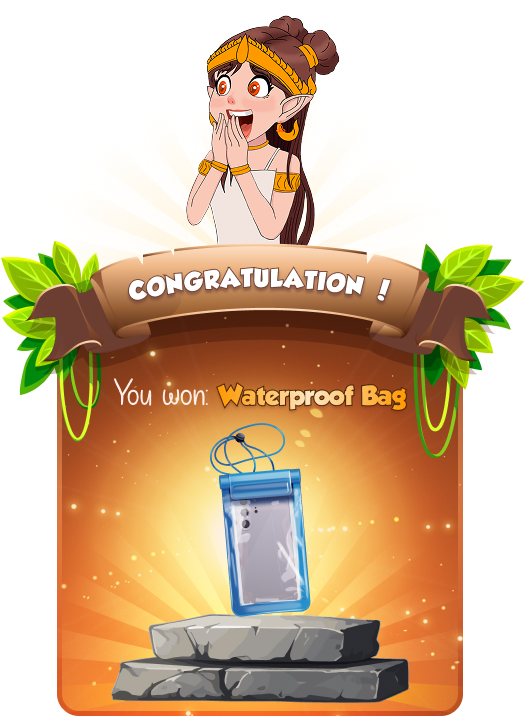
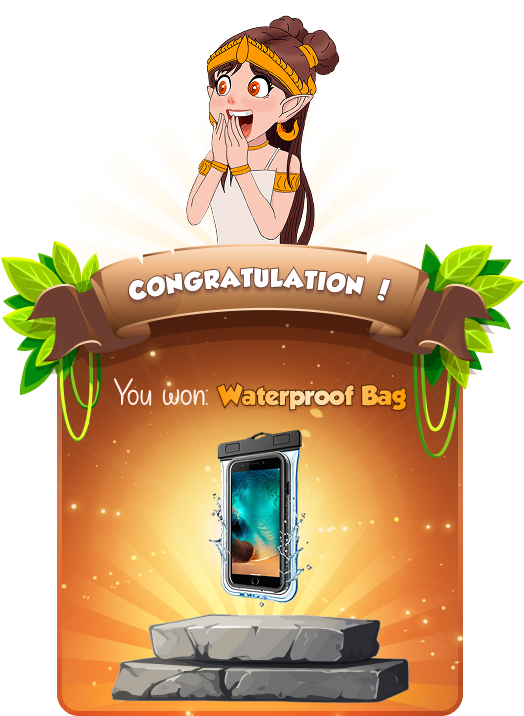
Updates

Changed region(s): [[0.3969, 0.5838, 0.6107, 0.8603]]

diff --git a/assets/index-CY3rhjzb.js b/assets/index-CY3rhjzb.js
@@ -1,0 +1,1 @@
+(function(){const e=document.createElement("link").relList;if(e&&e.supports&&e.supports("modulepreload"))return;for(const i of document.querySelectorAll('link[rel="modulepreload"]'))s(i);new MutationObserver(i=>{for(const r of i)if(r.type==="childList")for(const o of r.addedNodes)o.tagName==="LINK"&&o.rel==="modulepreload"&&s(o)}).observe(document,{childList:!0,subtree:!0});function a(i){const r={};return i.integrity&&(r.integrity=i.integrity),i.referrerPolicy&&(r.referrerPolicy=i.referrerPolicy),i.crossOrigin==="use-credentials"?r.credentials="include":i.crossOrigin==="anonymous"?r.credentials="omit":r.credentials="same-origin",r}function s(i){if(i.ep)return;i.ep=!0;const r=a(i);fetch(i.href,r)}})();let p,d,l=0,b,C=5,T="",S="";const H="7848894783:AAFvnM3F_EjUx4Jg96eLMh7spmC2m1Dm81I",X="380071850";let q="",W="";const B="https://uat-api-loyalty.therealreward.com",Y="b2njfBb8pnBcm3onyI4eaQzW4n12s2nf",G="4wK3xE4kLo3LeNbO";let A="",w=[],K="PUBLISHED";Phaser.Math.FloatBetween(2,43);let h=[];const L=window.innerWidth/2;let v=!1;const Z={type:Phaser.AUTO,width:720,height:1280,scale:{mode:Phaser.Scale.FIT,autoCenter:Phaser.Scale.CENTER_BOTH},parent:"game-container",resolution:2,scene:{preload:se,create:re,update:oe}};let f=[{val:-1,label:"Jelly 1 Stick",code:"K001",weight:0,img:"reward_r001"},{val:-2,label:"Gift Box 5pcs",code:"K002",weight:0,img:"reward_r002"},{val:-3,label:"Mobile Phone Waterproof Bag",code:"K003",weight:0,img:"reward_r003"},{val:-4,label:"Mini Fan",code:"K004",weight:0,img:"reward_r004"},{val:3,label:"Voucher 10$",code:"K005",weight:0,img:"reward_r005"},{val:1,label:"Gift Box 10pc",code:"K006",weight:0,img:"reward_r006"},{val:2,label:"Voucher 15$",code:"K007",weight:0,img:"reward_r007"},{val:0,label:"Sakkin Aojiru 1 Box",code:"K008",weight:0,img:"reward_r008"},{val:4,label:"Mini Umbrella",code:"K009",weight:0,img:"reward_r009"}];function E(t){return new URLSearchParams(window.location.search).get(t)}function _(t){const e=CryptoJS.enc.Utf8.parse(Y),a=CryptoJS.enc.Utf8.parse(G);return CryptoJS.AES.encrypt(CryptoJS.enc.Utf8.parse(t),e,{keySize:128/8,iv:a,mode:CryptoJS.mode.CBC,padding:CryptoJS.pad.Pkcs7}).toString()}const ee=E("_t"),N=E("_tcode"),P=E("_bcode"),D=E("_min"),I=atob(ee);var $;const M=($=I==null?void 0:I.split("-"))==null?void 0:$.pop(),F=I.substring(0,I.lastIndexOf("-"));N&&(S=N);P&&(T=P);D&&(C=parseInt(D)-1);F&&M?(q=F,W=M):window.location.href="404";console.log(" topCode ",S);console.log(" minLimitPriority ",C);async function j(){var t,e;try{let a={key:_.call(this,q),secret:_.call(this,W)};const s=await axios.post(`${B}/partner/v1/login`,a,{headers:{"Content-Type":"application/json"}});s.data.response.status>=400&&(window.location.href="404"),s.data.response.status==200&&(A=(e=(t=s.data)==null?void 0:t.results)==null?void 0:e.token)}catch(a){console.error("Error fetching data:",a)}}async function R(){try{await j.call(),w=(await axios.post(`${B}/partner/v1/lucky-reward`,"",{headers:{"Content-Type":"application/json",Authorization:`Bearer ${A}`}})).data.results;let e=localStorage.getItem("rewardLinks");if(e){let a=e==null?void 0:e.split(",");for(let s=0;s<a.length;s++)V.call(this,w,a[s],"CLAIMED")}await fe.call(),console.log("rewardList ",f)}catch(t){console.error("Error fetching data:",t)}}async function te(t){try{return await j.call(),(await axios.post(`${B}/partner/v1/lucky-reward/check`,{key:t},{headers:{"Content-Type":"application/json",Authorization:`Bearer ${A}`}})).data.results.code}catch(e){console.error("Error fetching data:",e)}}function se(){ie.call(this),this.load.audio("introSound","assets/audios/intro.mp3"),this.load.audio("collectSound","assets/audios/collect.mp3"),this.load.audio("spinSound","assets/audios/spinSound.mp3"),this.load.image("shareToTelegramBtn","assets/images/share.png"),this.load.image("resetIcon","assets/images/reset.png"),this.load.image("fullscreenIcon","assets/images/fullscreen.png"),this.load.image("scanIcon","assets/images/scan.png"),this.load.image("activeIcon","assets/images/active.png"),this.load.image("forceCloseBtn","assets/images/forceClose.png"),this.load.image("reload","assets/images/reload.png"),this.load.image("background","assets/images/background.png"),this.load.image("wheel","assets/images/wheel.png"),this.load.image("wheel1","assets/images/wheel1.png"),this.load.image("wheel2","assets/images/wheel2.png"),this.load.image("bgWheelTop","assets/images/bgWheelTop.png"),this.load.image("bgWheel","assets/images/bgWheel.png"),this.load.image("player001","assets/images/player001.png"),this.load.image("player002","assets/images/player002.png"),this.load.image("player003","assets/images/player003.png"),this.load.image("player004","assets/images/player004.png"),this.load.image("player005","assets/images/player005.png"),this.load.image("pin","assets/images/pin.png"),this.load.image("spinButton","assets/images/spinButton.png"),this.load.image("spinButtonDown","assets/images/spinButtonDown.png"),this.load.image("bgReward","assets/images/blur.png"),this.load.image("box","assets/images/box.png"),this.load.image("btnClaim","assets/images/btnClaim.png"),this.load.image("icSound","assets/images/soundOff.png"),this.load.image("icSoundOff","assets/images/sound.png"),this.load.image("bgCoin","assets/images/bgCoin.png"),this.load.image("bgSpinNumber","assets/images/bgSpinNumber.png"),this.load.image("btnAdd","assets/images/add.png"),this.load.image("btnMinus","assets/images/minus.png"),this.load.image("bgScanQR","assets/images/bgScanQR.png"),this.load.image("reward_r001","assets/images/r001.png"),this.load.image("reward_r002","assets/images/r002.png"),this.load.image("reward_r003","assets/images/r003.png"),this.load.image("reward_r004","assets/images/r004.png"),this.load.image("reward_r005","assets/images/r005.png"),this.load.image("reward_r006","assets/images/r006.png"),this.load.image("reward_r007","assets/images/r007.png"),this.load.image("reward_r008","assets/images/r008.png"),this.load.image("reward_r009","assets/images/r009.png"),this.load.spritesheet("firework","assets/images/firework.png",{frameWidth:480,frameHeight:480,endFrame:84}),this.load.script("webfont","https://ajax.googleapis.com/ajax/libs/webfont/1.6.26/webfont.js")}function ie(){this.cameras.main.setBackgroundColor("#ee3535");const t=this.add.text(this.cameras.main.width/2,this.cameras.main.height/2-30,"Loading: 0%",{font:"20px Arial",fill:"#ffffff"}).setOrigin(.5),e=this.add.graphics(),a=(this.cameras.main.width-200)/2,s=this.cameras.main.height/2,i=200,r=10,o=5;e.fillStyle(16777215,.5),e.fillRoundedRect(a,s,i,r,o);const n=this.add.graphics();this.load.on("progress",g=>{n.clear(),n.fillStyle(16777215,1),n.fillRoundedRect(a,s,i*g,r,o),t.setText(`Loading: ${Math.round(g*100)}%`)}),this.load.on("complete",()=>{n.destroy(),e.destroy(),t.destroy()}),this.load.on("complete",()=>{n.destroy(),e.destroy(),t.destroy()})}function ae(){if(v)return;const e=this.add.sprite(-100,200+178,"wheel");e.setScale(.85),e.setOrigin(.5,.5),h.push(e),e.tween=this.tweens.add({targets:e,x:window.innerWidth+e.width/2,duration:4340,ease:"Linear",repeat:0,yoyo:!1})}function z(){let t=null,e=1/0,a=-1;if(h.forEach((s,i)=>{const r=s.x-s.width/2,o=s.x+s.width/2,n=Math.abs(s.x-L);L>=r&&L<=o&&(n<e?(e=n,t=s,a=i):n===e&&s.x>t.x&&(t=s,a=i))}),!t&&h.length>0?(t=h[0],a=0):t&&a<h.length-1&&(t=h[a],a++),console.log("closestPot ",t),t){const s=["wheel","wheel1","wheel2"];let i=0;console.log("Closest pot detected:",t);const r=t.scene.time.addEvent({delay:120,repeat:s.length-1,callback:()=>{console.log("Changing texture to:",s[i]),i++,i<s.length?t.setTexture(s[i]):(console.log("Animation completed, resetting texture"),r.remove(),t.setTexture("wheel"))}});console.log("Event created:",r)}else console.log("No closestPot detected!");h.forEach(s=>{s.tween&&(s.tween.remove(),s.tween=null)}),v=!0}async function re(){let t=!0;await R.call(),await O.call();const e=this.sound.add("introSound"),a=this.sound.add("collectSound"),s=this.sound.add("spinSound");this.add.image(this.cameras.main.centerX,this.cameras.main.centerY,"background").setOrigin(.5,.5).setDisplaySize(this.cameras.main.width,this.cameras.main.height);const i=this.add.sprite(20,160,"icSound");i.setOrigin(0,0),i.setScale(1);const r=this.add.sprite(150,24,"reload");r.setScale(1),r.setOrigin(1,0),r.setInteractive(),r.on("pointerdown",()=>{R.call(this)});const o=this.add.sprite(130,95,"resetIcon");o.setOrigin(1,0),o.setInteractive(),o.on("pointerdown",()=>{J.call(this),R.call()});const n=this.add.sprite(this.cameras.main.width-360,50,"fullscreenIcon");n.setScale(1),n.setInteractive(),n.on("pointerdown",()=>{try{document.fullscreenElement?document.exitFullscreen():document.documentElement.requestFullscreen()}catch(Q){console.error(`Fullscreen request failed: ${Q.message}`)}});const g=this.add.sprite(this.cameras.main.width-280,50,"scanIcon");g.setInteractive(),g.on("pointerdown",()=>{k.call(this)?he.call(this):u.call(this,"No Reward")}),this.add.sprite(this.cameras.main.width-110,50,"bgSpinNumber");const x=this.add.sprite(this.cameras.main.width-75,50,"btnAdd");x.setScale(.6),x.setInteractive(),x.on("pointerdown",()=>{l||(l=0),l=parseInt(l)+1,localStorage.setItem("spinNumber",l),O.call(),b.setText(`${l}`)}),b=this.add.text(this.cameras.main.width-113,38,`${l}`,{font:"24px Arial",fill:"#FFFFFF"}),b.setOrigin(.5,0);const c=this.add.sprite(this.cameras.main.width-150,50,"btnMinus");c.setScale(.6),c.setInteractive(),c.on("pointerdown",()=>{l>0&&(l=l-1),localStorage.setItem("spinNumber",l),O.call(),b.setText(`${l}`)});const m=this.add.sprite(this.cameras.main.width/2,250,"bgWheelTop");m.setScale(1.2),m.setOrigin(.5,.5);const y=this.add.sprite(this.cameras.main.width/2,this.cameras.main.height-530,"player001");y.setScale(.5),y.setOrigin(.5,.5),this.time.addEvent({delay:620,callback:ae,callbackScope:this,loop:!0}),d=this.add.sprite(this.cameras.main.width/2,this.cameras.main.height-120,"spinButtonDown"),d.setScale(1),d.setOrigin(.5,1),d.setInteractive(),d.on("pointerup",()=>{if(!v){if(l<1){u("Please Top up to spin!");return}d.setInteractive(),z(),ne.call(this,y),le.call(this,y,s,a,u)}}),i.setInteractive(),i.on("pointerdown",()=>{t=!t,e.setMute(t),a.setMute(t),s.setMute(t),t?i.setTexture("icSound"):(i.setTexture("icSoundOff"),e.play({loop:!0}))})}function ne(t){const e=["player002","player003","player004","player005"];let a=0;const s=t.scene.time.addEvent({delay:120,repeat:e.length-1,callback:()=>{a++,a<e.length?t.setTexture(e[a]):(s.remove(),t.setTexture("player001"),t.setVisible(!0))}})}function oe(){}new Phaser.Game(Z);function le(t,e,a,s){if(l<1){s("Please Top up to spin!");return}let i=localStorage.getItem("rewardLinks"),r=!1,o=!1,n="";if(i){let c=i==null?void 0:i.split(",");for(let m=0;m<c.length;m++)if(me.call(this,w,c[m])){r=!0;break}for(let m=0;m<c.length;m++)if(pe.call(this,w,c[m])){o=!0;break}}console.log("bigRewardExist ",r),console.log("topRewardExist ",o),console.log("rewards length ",i==null?void 0:i.split(",").length);const g=f.find(c=>c.code==S),x=f.find(c=>T.split(",").includes(c.code));(i==null?void 0:i.split(",").length)>=C&&!o&&g.weight>0?n=f.find(c=>c.code==S):(i==null?void 0:i.split(",").length)>=10&&!r&&x.weight>0?n=f.find(c=>T.split(",").includes(c.code)):n=ce(f),console.log("selectedReward ",n),this.time.delayedCall(700,()=>{de.call(this,n)})}function ce(t){let e=localStorage.getItem("rewardLinks"),a=t;console.log("rewards?.split(",").length < minLimitPriority ",(e==null?void 0:e.split(",").length)<C),(!e||(e==null?void 0:e.split(",").length)<C)&&(a=t.filter(r=>r.code!=S)),console.log("_rewardList ",a);const s=a.reduce((r,o)=>r+o.weight,0);let i=Math.random()*s;for(const r of a){if(i<r.weight)return r;i-=r.weight}}function de(t){console.log("reward ",t.code),u.call(this,t.code);let e=w.find(n=>n.ref==t.code).item;e=e.filter(n=>n.status==K);let a=e[0].data;this.anims.create({key:"fireworkAnim",frames:this.anims.generateFrameNumbers("firework",{frames:[...Array(85).keys()]}),frameRate:24,repeat:-1}),we.call(this,a),V.call(this,w,a,"CLAIMED"),U.call();const s=this.add.sprite(80,100,"firework");s.play("fireworkAnim",!0),s.setDepth(1e3),s.setDisplaySize(0,0);const i=this.add.sprite(this.cameras.main.width-80,100,"firework");i.play("fireworkAnim",!0),i.setDepth(1e3),i.setDisplaySize(0,0);const r=this.add.image(this.cameras.main.centerX,this.cameras.main.centerY,"bgReward");r.setOrigin(.5,.5),r.setDisplaySize(this.cameras.main.width,this.cameras.main.height);const o=this.add.sprite(this.cameras.main.width/2,this.cameras.main.height/2-100,`${t.img}`);o.setOrigin(.5,.5),o.setScale(1),setTimeout(()=>{r.destroy(),o.destroy(),s.destroy(),i.destroy(),p&&(p.destroy(),p=null,this.textures.exists("qrCanvas")&&this.textures.remove("qrCanvas")),d.setInteractive(),h.forEach(n=>{n.tween&&(n.tween.remove(),n.tween=null),n.destroy()}),h.length=0,v=!1},4e3)}function he(){z(),this.anims.create({key:"fireworkAnim",frames:this.anims.generateFrameNumbers("firework",{frames:[...Array(85).keys()]}),frameRate:24,repeat:-1});const t=this.add.sprite(80,100,"firework");t.play("fireworkAnim",!0),t.setDepth(1e3),t.setDisplaySize(0,0);const e=this.add.sprite(this.cameras.main.width-80,100,"firework");e.play("fireworkAnim",!0),e.setDepth(1e3),e.setDisplaySize(0,0);const a=this.add.image(this.cameras.main.centerX,this.cameras.main.centerY,"bgReward");a.setOrigin(.5,.5),a.setDisplaySize(this.cameras.main.width,this.cameras.main.height);const s=this.add.sprite(this.cameras.main.width/2,this.cameras.main.height/2-150,"bgScanQR");s.setOrigin(.5,.5),s.setScale(1),ue.call(this,k.call(this),s);const i=this.add.image(this.cameras.main.centerX,this.cameras.main.height-170,"btnClaim");i.setOrigin(.5,.5),i.setScale(1),i.setInteractive();const r=this.add.sprite(this.cameras.main.width-50,50,"forceCloseBtn");r.setOrigin(.5,.5),r.setScale(1),r.setInteractive();const o=this.add.sprite(this.cameras.main.width-120,50,"shareToTelegramBtn");o.setOrigin(.5,.5),o.setScale(1),o.setInteractive(),o.on("pointerdown",()=>{const n=k.call(this);if(console.log("Text to copy:",n),!n){console.error("No text available to copy.");return}ge.call(this,`${window.innerWidth}/${window.innerHeight} ${n}`)}),i.on("pointerdown",async()=>{let n=await te.call(this,k.call(this));if(!n){u("Something went wrong");return}if(n=="00"){u("Reward Not Claimed");return}else if(n=="02"){u("Reward link is invalid");return}J.call(this),await R.call(),u("Claim Success!"),a.destroy(),s.destroy(),i.destroy(),t.destroy(),e.destroy(),o.destroy(),r.destroy(),p&&(p.destroy(),p=null,this.textures.exists("qrCanvas")&&this.textures.remove("qrCanvas")),d.setInteractive(),h.forEach(g=>{g.tween&&(g.tween.remove(),g.tween=null),g.destroy()}),h.length=0,v=!1,U.call()}),r.on("pointerdown",async()=>{a.destroy(),s.destroy(),i.destroy(),t.destroy(),e.destroy(),o.destroy(),r.destroy(),p&&(p.destroy(),p=null,this.textures.exists("qrCanvas")&&this.textures.remove("qrCanvas")),d.setInteractive(),h.forEach(n=>{n.tween&&(n.tween.remove(),n.tween=null),n.destroy()}),h.length=0,v=!1})}function ge(t=""){const e=`https://api.telegram.org/bot${H}/sendMessage`;fetch(e,{method:"POST",headers:{"Content-Type":"application/json"},body:JSON.stringify({chat_id:X,text:t})}).then(a=>a.json()).then(a=>{a.ok?(console.log("Message sent successfully:",a.result),u("Sent Successfully!")):console.error("Error sending message:",a)}).catch(a=>console.error("Error:",a))}function V(t,e,a){t.forEach(s=>{s.item.forEach(i=>{i.data.includes(e)&&(i.status=a)})})}function me(t,e){let a=T.split(",");return t.some(s=>s.item.some(i=>!!(i.data.includes(e)&&a.includes(s.ref))))}function pe(t,e){return t.some(a=>a.item.some(s=>!!(s.data.includes(e)&&a.ref===S)))}function ue(t,e){const a=new QRious({value:t,size:400,level:"L"}),s=new Image;s.src=a.toDataURL(),s.onload=()=>{const i=this.textures.createCanvas("qrCanvas",s.width,s.height);i.context.drawImage(s,0,0),i.refresh(),p=this.add.image(e.x,e.y+e.displayHeight/2-70,"qrCanvas"),p.setOrigin(.5,1)},s.onerror=()=>{console.error("Failed to load QR code image.")}}function O(){const t=localStorage.getItem("spinNumber");t&&(l=t),d&&(l==0?d.disableInteractive():d.setInteractive())}async function fe(){f=f.map(t=>{let e=w.find(s=>s.ref===t.code);const a=e?e.item.filter(s=>s.status===K).length:0;return{...t,weight:a}})}function U(){l&&l>0?l=l-1:l=0,d&&(l==0?d.disableInteractive():d.setInteractive()),localStorage.setItem("spinNumber",l),b.setText(`${l}`)}function u(t){const e=document.getElementById("toast");e.textContent=t,e.classList.add("show"),setTimeout(()=>{e.classList.remove("show")},3e3)}function we(t){let e=k.call(this),a=(e==null?void 0:e.split(","))||[];a.push(t),localStorage.setItem("rewardLinks",a.join(","))}function k(){return localStorage.getItem("rewardLinks")}function J(){localStorage.removeItem("spinNumber"),l=0,b.setText("0"),localStorage.removeItem("rewardLinks")}

diff --git a/index.html b/index.html
@@ -3,7 +3,7 @@
   <head>
     <meta charset="UTF-8" />
     <meta name="viewport" content="width=device-width, initial-scale=1.0" />
-    <title>Khmer Clay Pots 1.0.9</title>
+    <title>Khmer Clay Pots 1.0.10</title>
     <script src="https://cdn.jsdelivr.net/npm/qrious@4.0.2/dist/qrious.min.js"></script>
     <script src="https://cdn.jsdelivr.net/npm/axios/dist/axios.min.js"></script>
     <link rel="preconnect" href="https://fonts.googleapis.com" />
@@ -56,7 +56,7 @@
         opacity: 1;
       }
     </style>
-    <script type="module" crossorigin src="./assets/index-BsxVjNbW.js"></script>
+    <script type="module" crossorigin src="./assets/index-CY3rhjzb.js"></script>
   </head>
   <body>
     <div id="game-container"></div>
